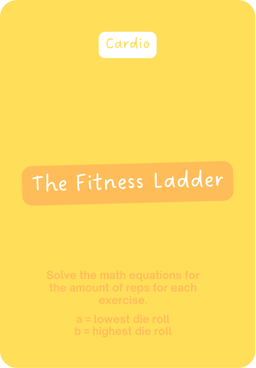
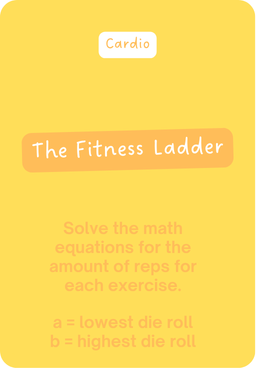
added yellow deck of cards

diff --git a/sketch.js b/sketch.js
@@ -359,11 +359,11 @@ function setupEventListeners() {
     cardioCard.style.display = "block";
     closeCardBtn.style.display = "block";
 
-    // frontCard = fronts[Math.floor(Math.random() * fronts.length)]
-    // cardioCard.style.backgroundImage = `url(./assets/front-of-card/yellow/${frontCard})`;
-    // cardioCard.style.backgroundSize = "cover"; 
-    // cardioCard.style.backgroundPosition = "center"; 
-    // cardioCard.style.backgroundRepeat = "no-repeat";
+    frontCard = fronts[Math.floor(Math.random() * fronts.length)]
+    cardioCard.style.backgroundImage = `url(./assets/front-of-card/yellow/${frontCard})`;
+    cardioCard.style.backgroundSize = "cover"; 
+    cardioCard.style.backgroundPosition = "center"; 
+    cardioCard.style.backgroundRepeat = "no-repeat";
 
     closeCardBtn.addEventListener("click", () => {
       cardioCard.style.display = "none";